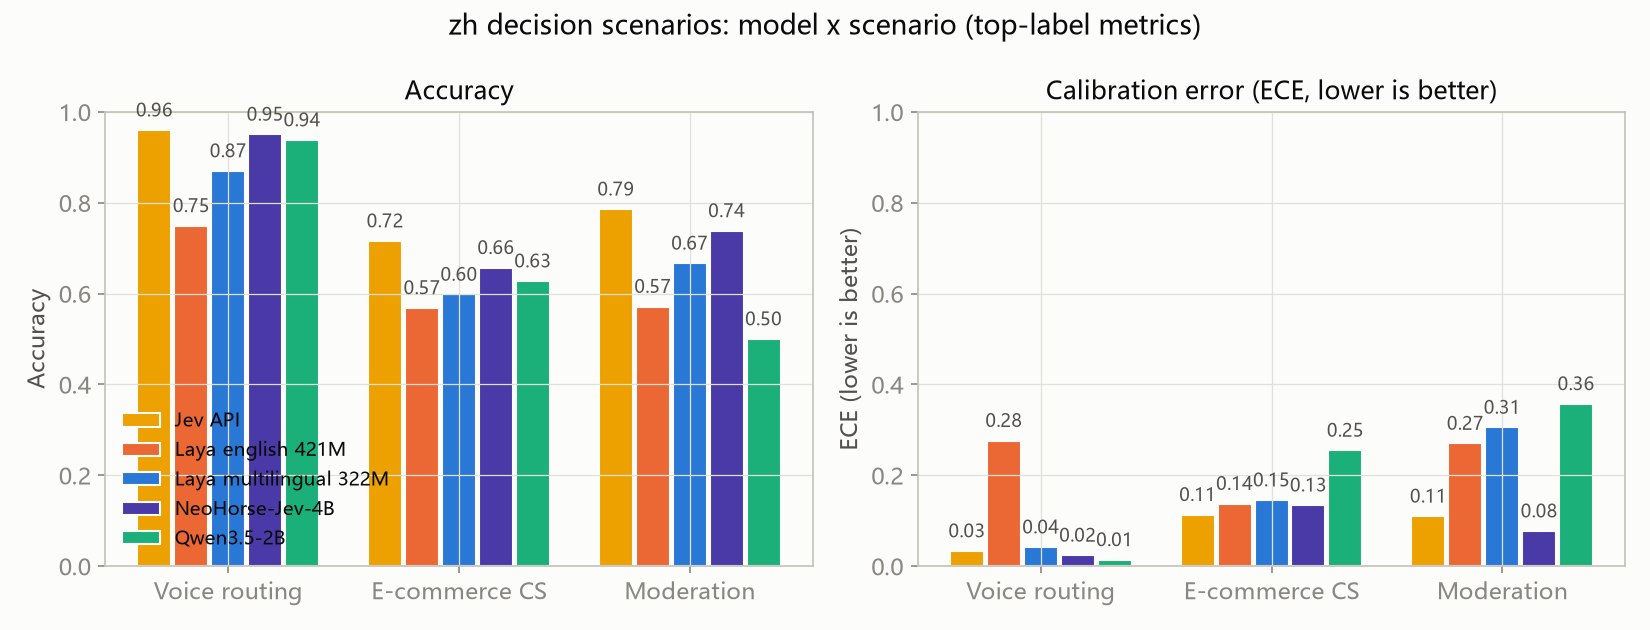
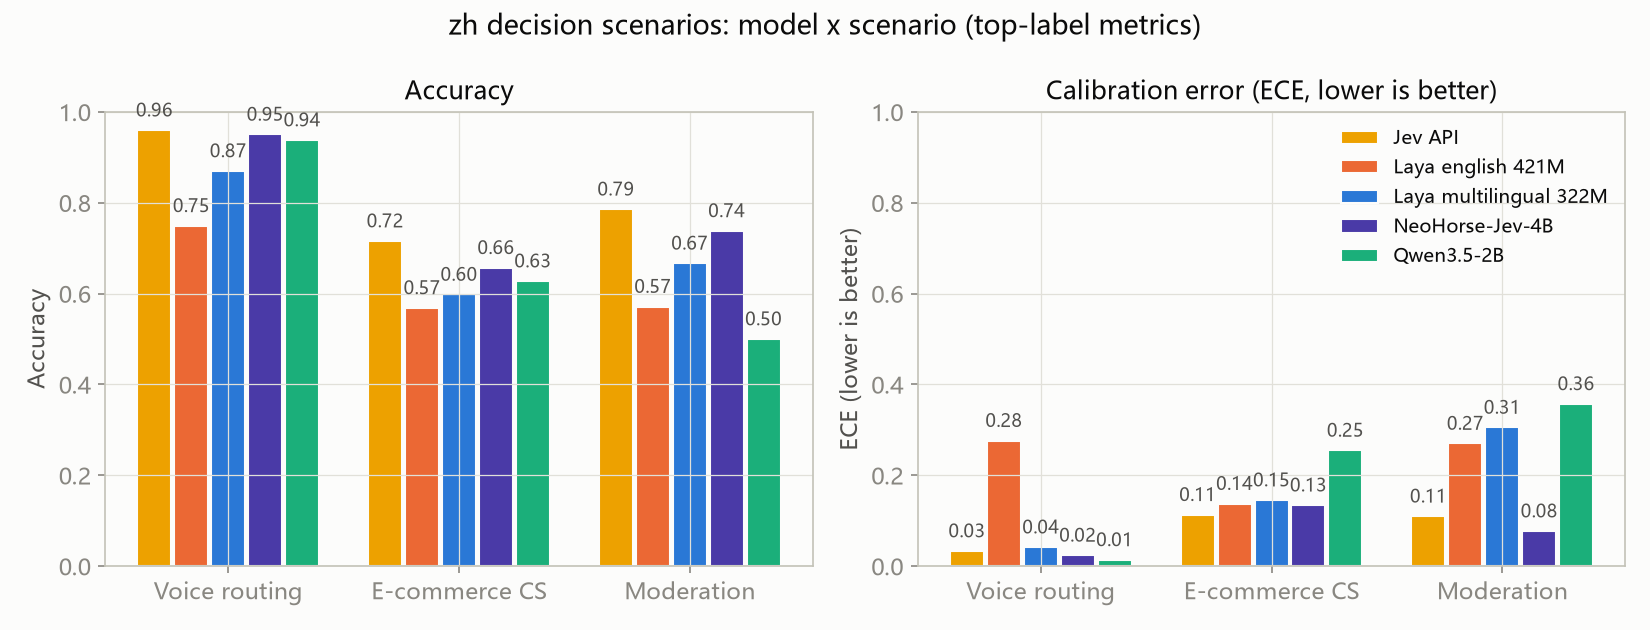
图例移至ECE面板右上角，避免与柱体重叠

Changed region(s): [[0.8036, 0.2111, 0.9891, 0.4222], [0.0618, 0.6635, 0.2473, 0.8143], [0.0618, 0.8444, 0.1855, 0.8746]]

diff --git a/src/plots.py b/src/plots.py
@@ -154,8 +154,8 @@ def main():
             ax.set_ylabel(ylab)
             ax.set_title(title, color=INK, fontsize=12)
             ax.set_ylim(0, 1.0)
-            if pi == 0:
-                ax.legend(frameon=False, fontsize=9)
+            if pi == 1:  # 图例放右图（ECE 柱矮，右上角留白充足）
+                ax.legend(frameon=False, fontsize=9, loc="upper right")
         fig.suptitle(T["cmp_title"], color=INK, fontsize=13)
         fig.tight_layout()
         fig.savefig(out / f"model_comparison_{lang}.png", dpi=150)
